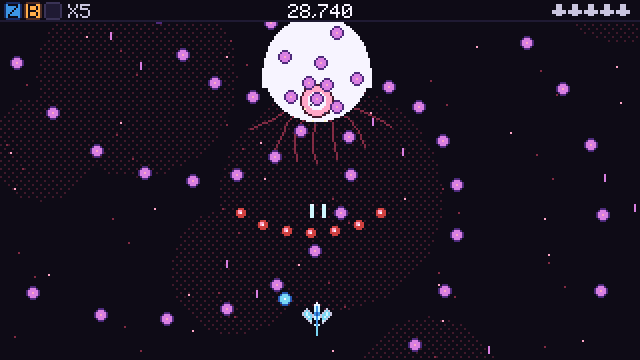
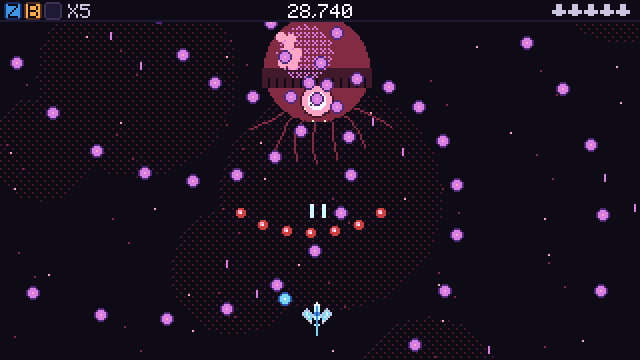
BUZZBOLT: a boss under steady fire only flickers now and then

Changed region(s): [[0.4062, 0.0611, 0.5938, 0.3361]]

diff --git a/src/games/buzzbolt/buzzbolt_draw.c b/src/games/buzzbolt/buzzbolt_draw.c
@@ -221,7 +221,9 @@ static void draw_foes(void) {
     for (int i = 0; i < BZZ_MAX_FOES; i++) {
         Foe *e = &bz.foe[i];
         if (!e->alive || e->t < 0) continue;
-        bool w = e->flash > 0;
+        /* a hit shows as a white flash; a big foe under steady fire only
+         * flickers now and then, so it stays readable */
+        bool w = e->role == ROLE_FOE ? e->flash > 0 : e->flash >= 3 && bz.frame_t % 3 == 0;
         int t = e->t + i * 7;
         switch (e->kind) {
         case EK_GNAT: spr_c((t / 3) % 2 ? SP_GNAT1 : SP_GNAT2, e->x, e->y, 0, w); break;
